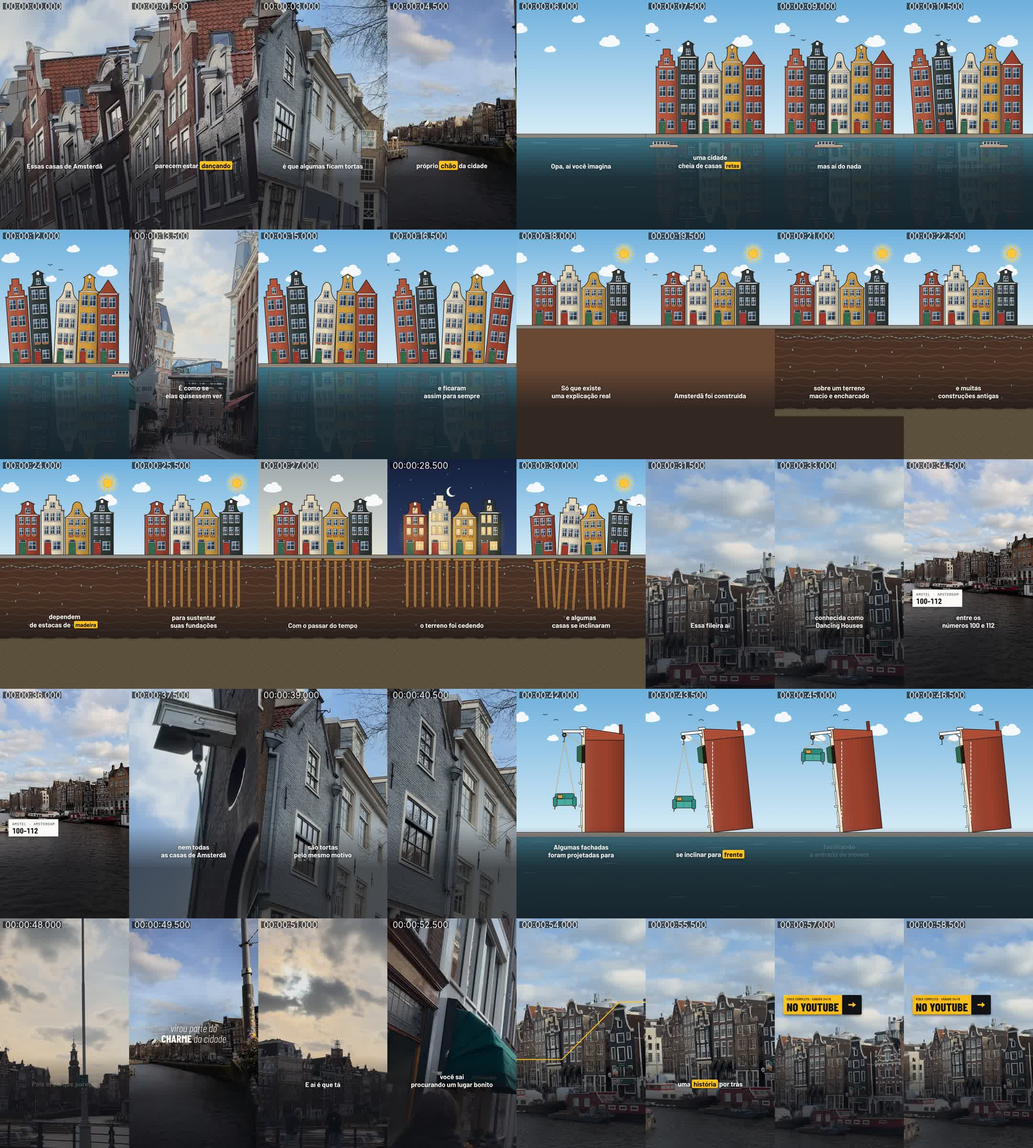
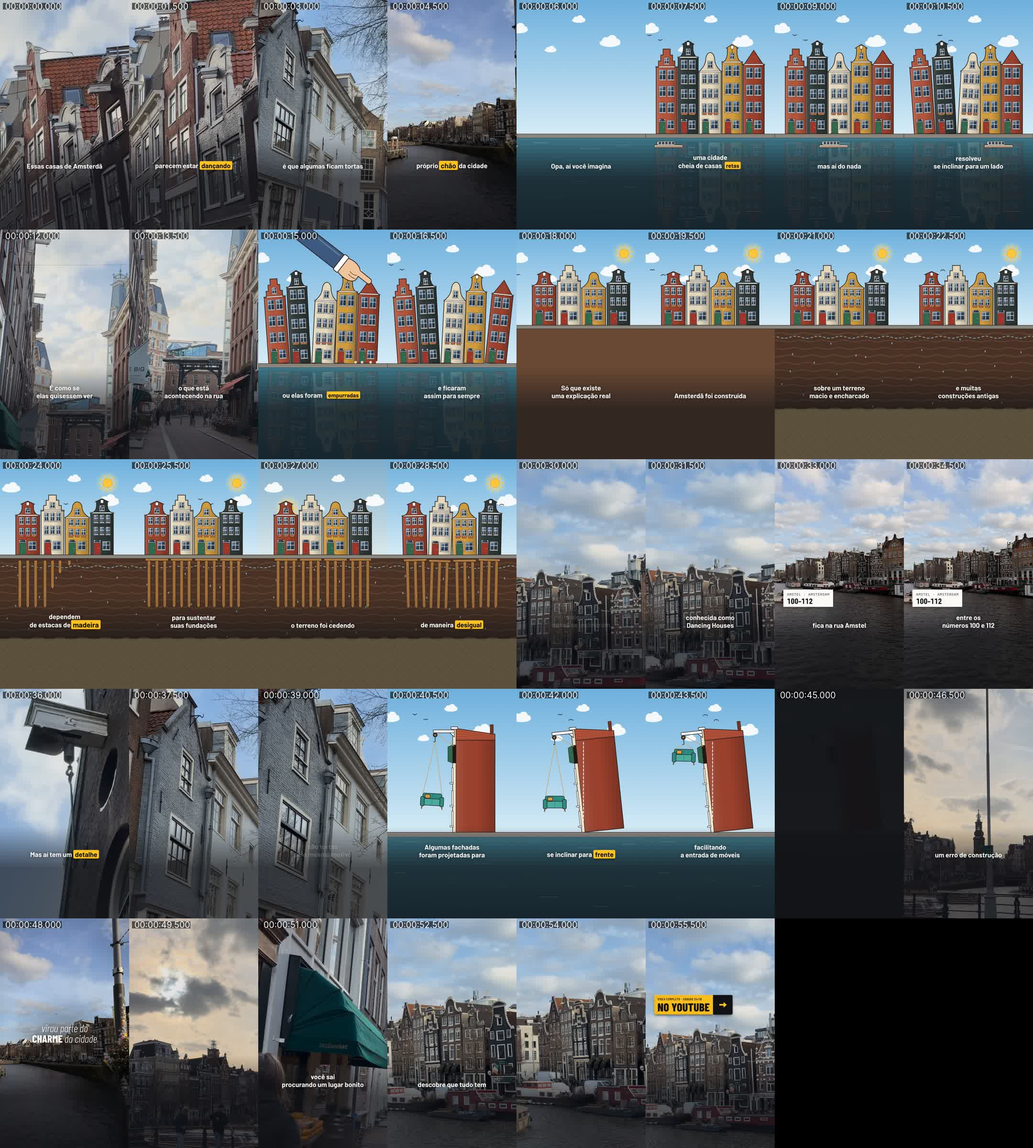
AMS-casas-tortas REV1: decupagem das pausas e vídeos de fundo mudos
Pausas entre os takes encurtadas (59,7 → 57,7 s) sem cortar a voz; som
ambiente dos clipes removido para a música entrar na postagem.

Claude-Session: https://claude.ai/code/session_01GeFpCp7M6N4dcYWvwdq2Mp

diff --git a/reels/amsterdam-casas-tortas/rev1/rev1.py b/reels/amsterdam-casas-tortas/rev1/rev1.py
@@ -577,8 +577,10 @@ def props():
         "capa": {k: d["capa"][k] for k in ("rotulo", "destino", "modulo", "tamanho")} | {"arquivo": "capa_fundo.jpg"},
         "cta": {k: d["cta"][k] for k in ("rotulo", "destino", "modulo", "tamanho")} | {"ini": cta["ini"]},
         "voz": [{"arquivo": tk["arquivo"], "ini": round(tk["t0"] * 1000), "dur": round(tk["dur"] * 1000)} for tk in takes],
-        "ambientes": [{"arquivo": f"amb_{p['id']}.wav", "ini": p["ini"], "fim": p["fim"], "cinema": p.get("transicao") == "cinema"}
-                      for p in lista if p["tipo"] != "desenho"],
+        # vídeos de fundo mudos a pedido do Diego (21/10): a música entra na postagem
+        "ambientes": [] if d["mix"].get("ambiente_mudo") else [
+            {"arquivo": f"amb_{p['id']}.wav", "ini": p["ini"], "fim": p["fim"], "cinema": p.get("transicao") == "cinema"}
+            for p in lista if p["tipo"] != "desenho"],
         "sons": sons_,
         "mix": d["mix"],
     }

diff --git a/reels/amsterdam-casas-tortas/rev1/QA_REV1.md b/reels/amsterdam-casas-tortas/rev1/QA_REV1.md
@@ -4,7 +4,7 @@
 
 | Item | Valor |
 |---|---|
-| Arquivo final | `reel_amsterdam-casas-tortas_rev1.mp4` · 1080 × 1920 · 30 fps · 59,7 s · H.264 + AAC 320 kbps · vídeo fluido e desenho colorido (ajustes de 21/10) |
+| Arquivo final | `reel_amsterdam-casas-tortas_rev1.mp4` · 1080 × 1920 · 30 fps · 57,7 s · H.264 + AAC 320 kbps · vídeo fluido, desenho colorido, pausas entre as falas encurtadas e vídeos de fundo mudos (ajustes de 21/10) |
 | Prévia leve | `reel_amsterdam-casas-tortas_rev1_previa.mp4` (540 × 960) |
 | Capa | `capa_amsterdam-casas-tortas_rev1.jpg` (1080 × 1920; placa Hook "POR QUE AS CASAS DE AMSTERDAM / DANÇAM ?" no recorte 3:4, entre y 240 e 1680) |
 | Áudio | −14,0 LUFS integrados · pico verdadeiro −1,4 dBTP (DS V2, 4.6) |
@@ -166,3 +166,9 @@ python3 rev1.py tudo        # voz → planos → sons → props → render → m
 ```
 
 Os brutos, as fotos e a narração ficam em `../fonte/` (fora do git). Se faltarem, o `rev1.py` imprime o comando de download pelo `drive_id` de cada arquivo em `rev1.json`. A transcrição fica em cache em `../fonte/narracao/asr_large-v3.json`; para refazer com o Whisper, apague esse arquivo (precisa do pacote `faster-whisper`).
+
+## Ajustes de 21/10/2026 (pedidos do Diego)
+
+- **Decupagem:** as pausas entre os takes caíram para 0,06–0,10 s (0,15 s antes da Varredura e 0,20 s antes do Cinema). Nenhuma fala foi cortada: cada take mantém 50 ms antes e 120 ms depois da voz. Duração: 59,7 → 57,7 s; os tempos das cenas e das legendas acompanham as palavras sozinhos.
+- **Vídeos de fundo mudos:** sem o som ambiente dos clipes (`mix.ambiente_mudo` em `rev1.json`). No arquivo ficam só a voz e os efeitos sonoros; a música entra baixa na postagem.
+- Os tempos citados nas seções acima são os da versão de 59,7 s.
